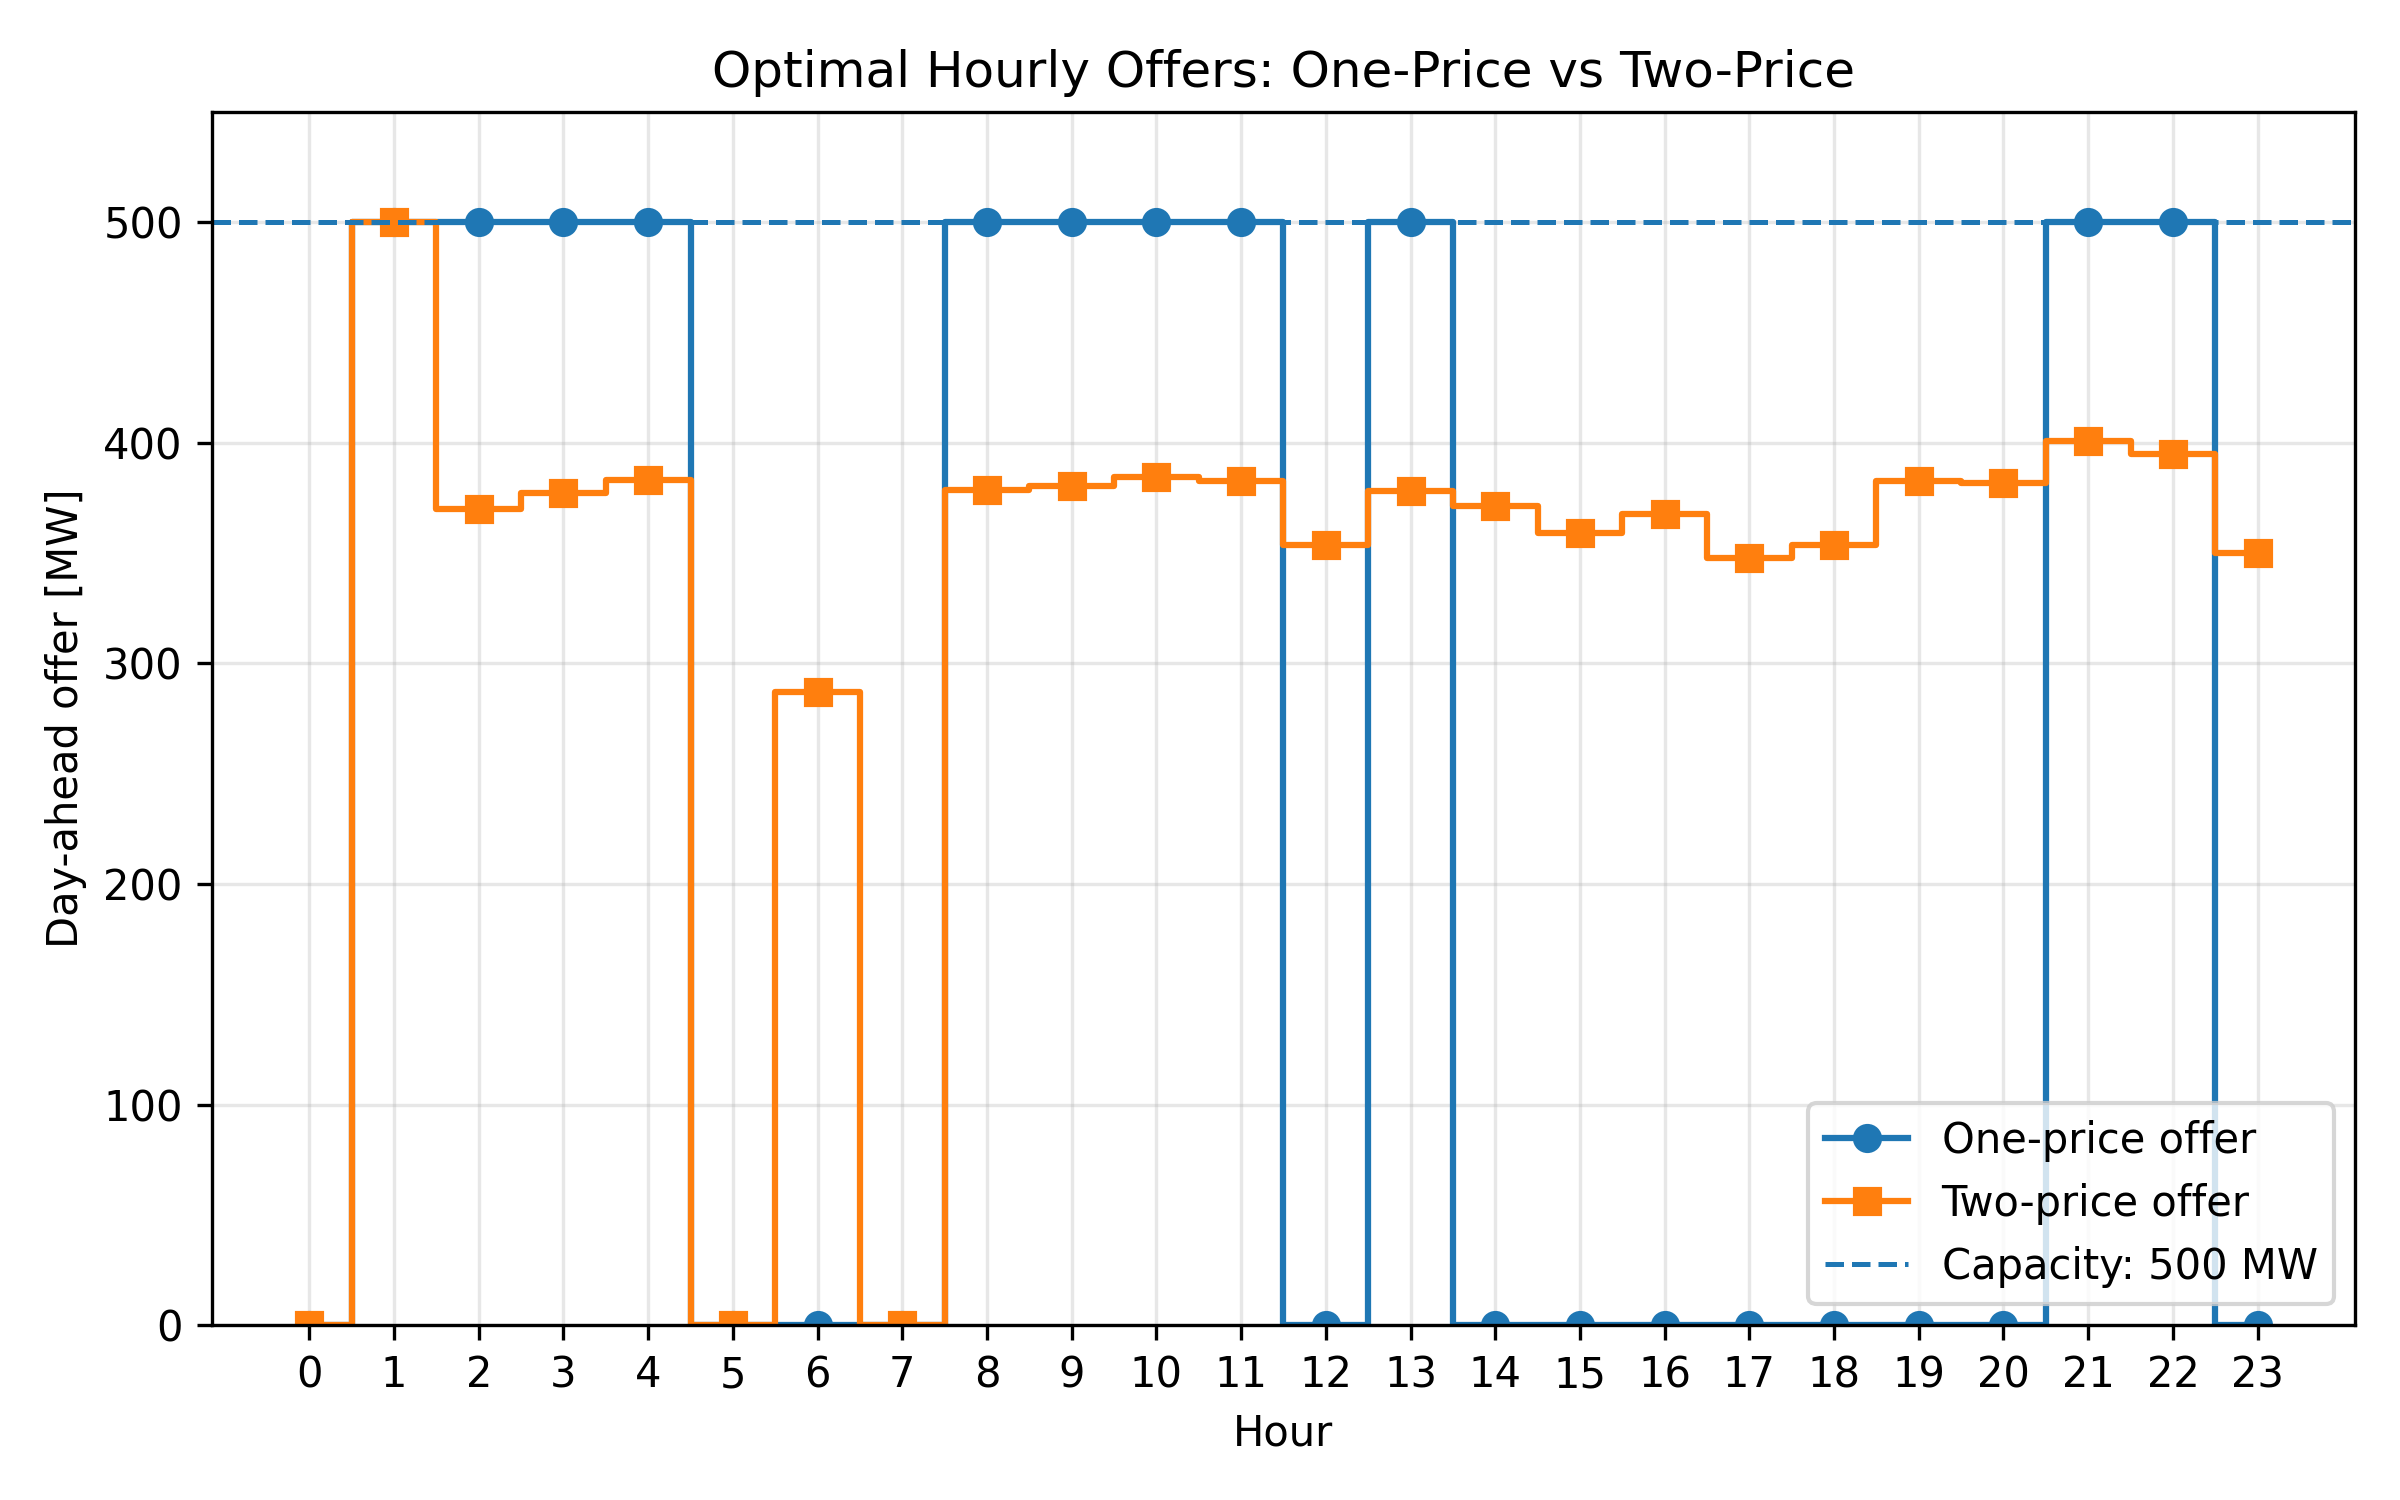
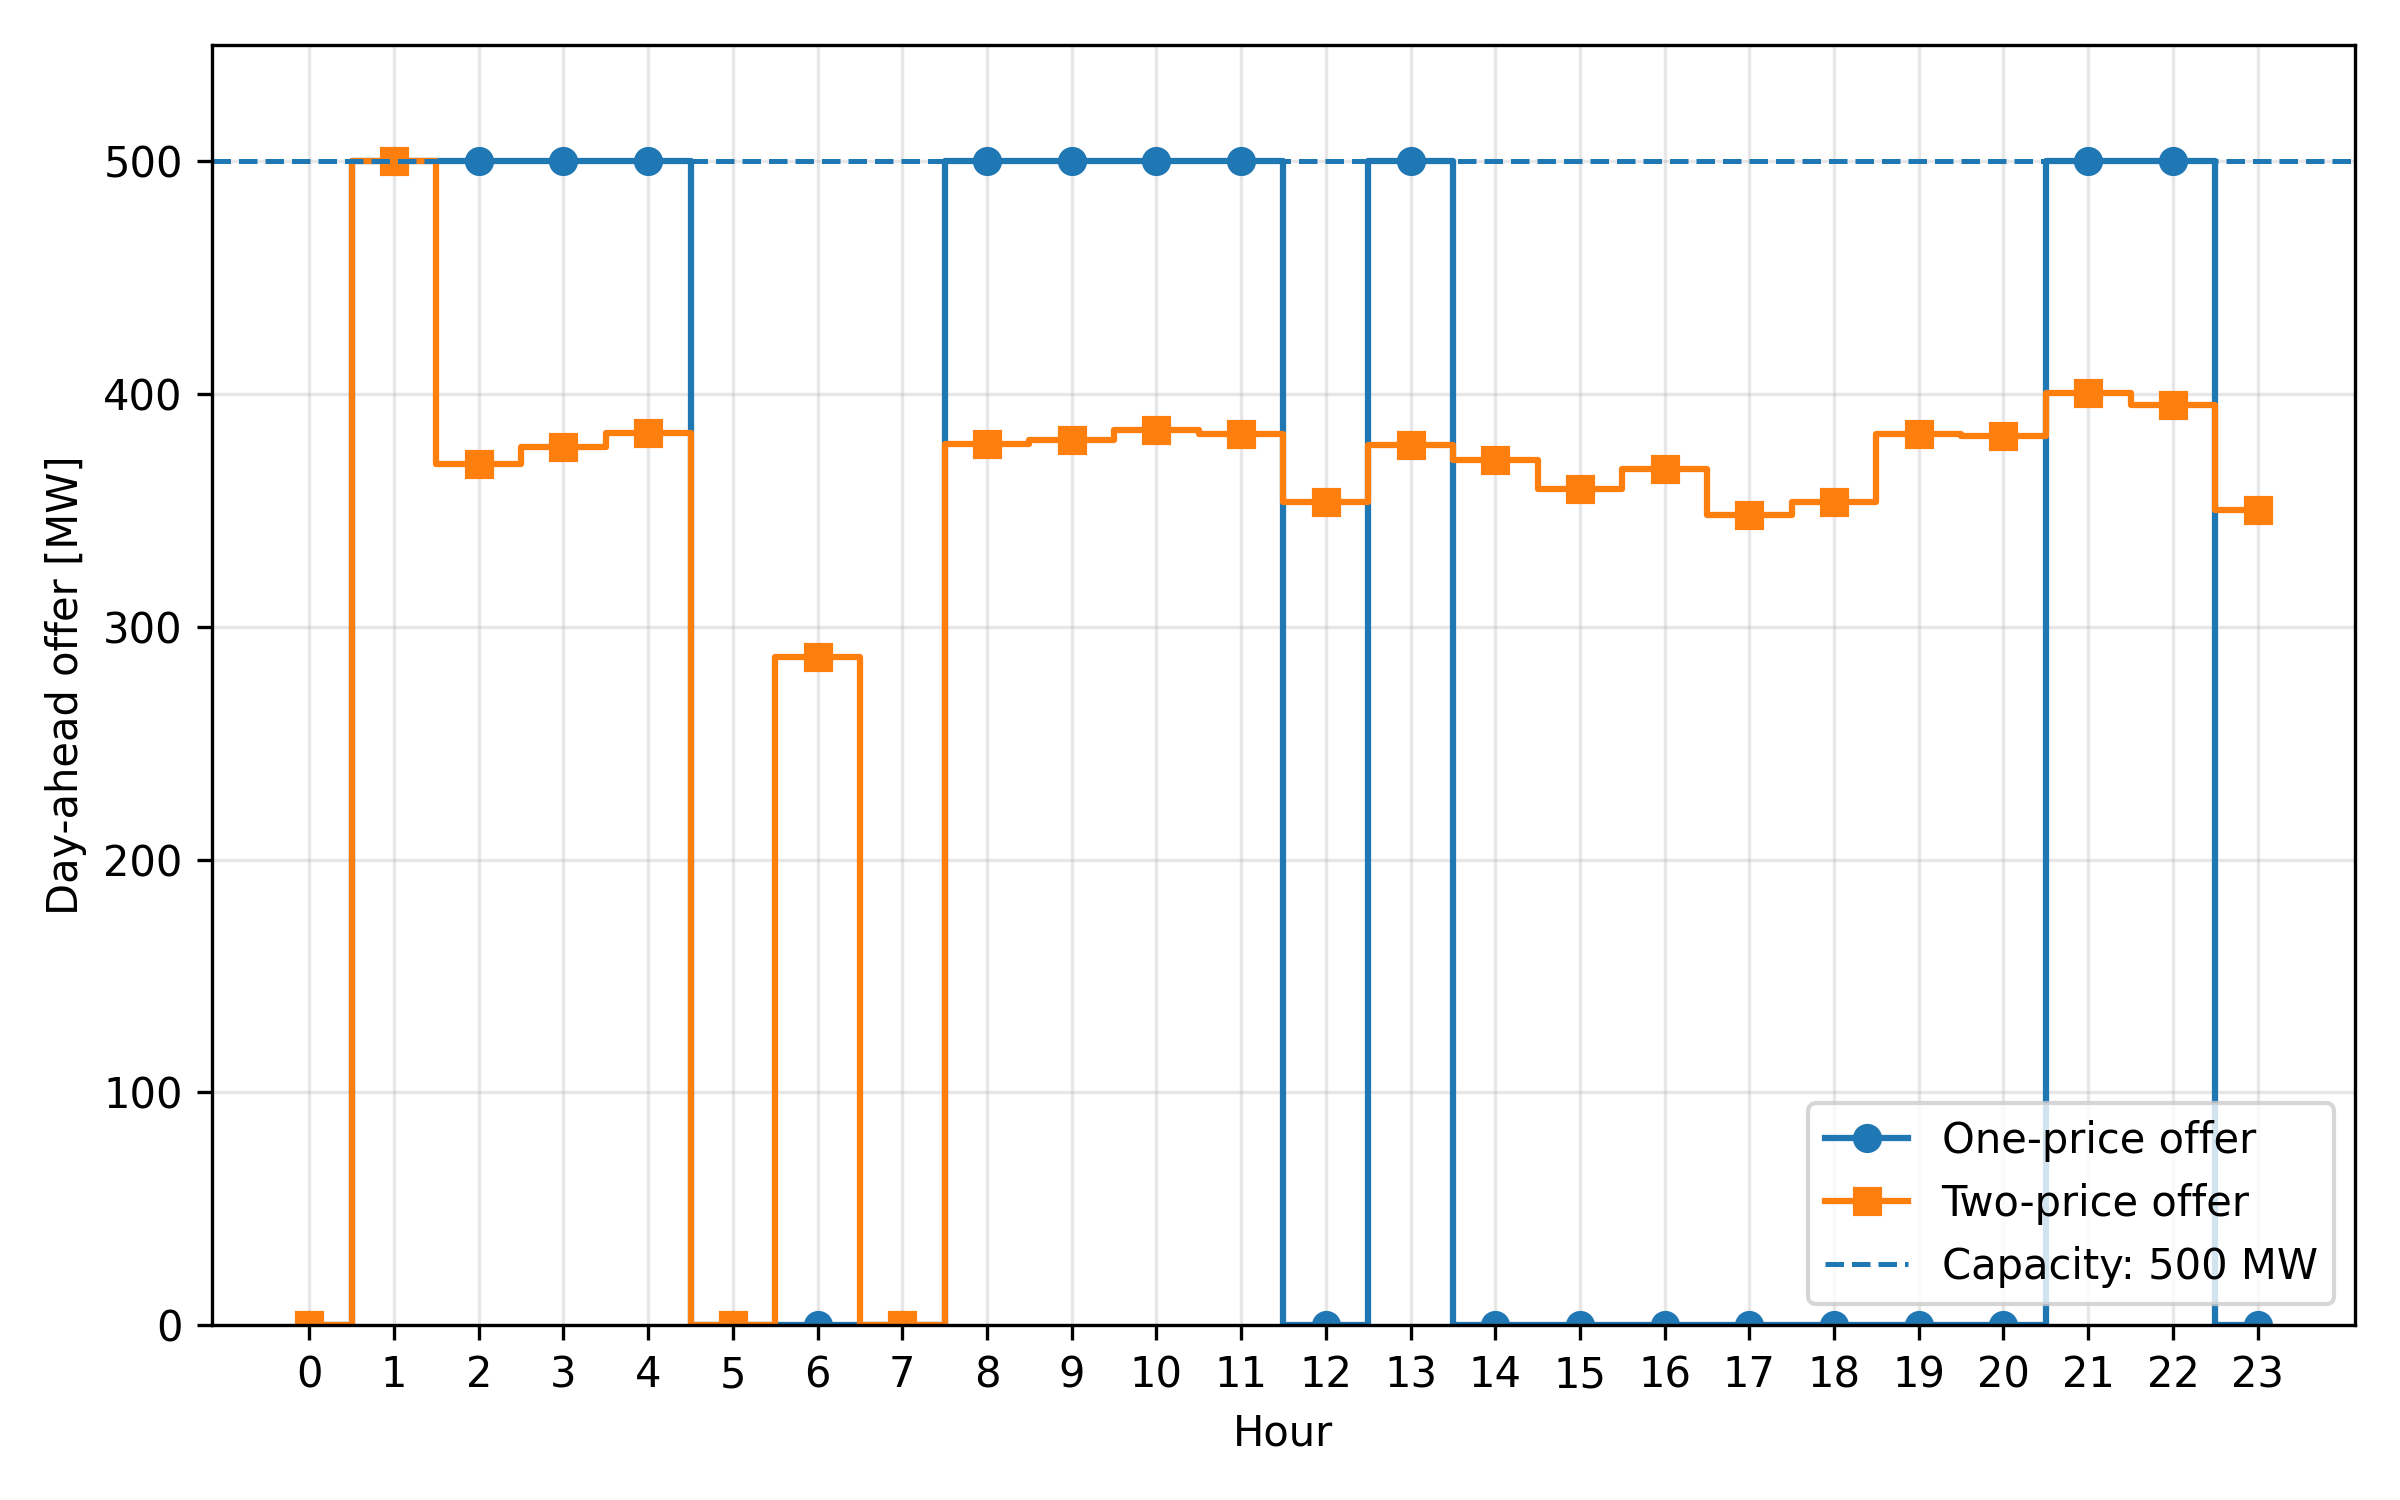
removing titles on plots

diff --git a/plotting.py b/plotting.py
@@ -17,7 +17,7 @@ from helpers import CAPACITY_MW
 def plot_hourly_offer(
     offer: np.ndarray,
     filename: str,
-    title: str,
+    #title: str,
     capacity_mw: float = CAPACITY_MW
 ) -> None:
     hours = np.arange(24)
@@ -31,7 +31,7 @@ def plot_hourly_offer(
         label=f"Capacity: {capacity_mw:.0f} MW"
     )
 
-    plt.title(title)
+    #plt.title(title)
     plt.xlabel("Hour")
     plt.ylabel("Day-ahead offer [MW]")
     plt.xticks(hours)
@@ -50,7 +50,6 @@ def plot_hourly_offer(
 def plot_profit_distribution(
     profits: List[float],
     filename: str,
-    title: str
 ) -> None:
     expected_profit = np.mean(profits)
 
@@ -63,7 +62,6 @@ def plot_profit_distribution(
         label=f"Expected profit: {expected_profit:,.0f} EUR"
     )
 
-    plt.title(title)
     plt.xlabel("Scenario profit [EUR]")
     plt.ylabel("Frequency")
     plt.grid(True, alpha=0.3)
@@ -80,7 +78,6 @@ def plot_profit_distribution(
 def plot_profit_by_scenario(
     profits: List[float],
     filename: str,
-    title: str
 ) -> None:
     scenario_ids = np.arange(1, len(profits) + 1)
     expected_profit = np.mean(profits)
@@ -101,7 +98,6 @@ def plot_profit_by_scenario(
         label=f"Expected profit: {expected_profit:,.0f} EUR"
     )
 
-    plt.title(title)
     plt.xlabel("Scenario index")
     plt.ylabel("Profit [EUR]")
     plt.grid(True, alpha=0.3)
@@ -118,7 +114,6 @@ def plot_offer_comparison(
     offer_one_price: np.ndarray,
     offer_two_price: np.ndarray,
     filename: str,
-    title: str = "Comparison of Optimal Hourly Offers"
 ) -> None:
     hours = np.arange(24)
 
@@ -132,7 +127,6 @@ def plot_offer_comparison(
         label=f"Capacity: {CAPACITY_MW:.0f} MW"
     )
 
-    plt.title(title)
     plt.xlabel("Hour")
     plt.ylabel("Day-ahead offer [MW]")
     plt.xticks(hours)
@@ -437,7 +431,7 @@ def plot_task_2_3_tradeoff(results_df, filename):
     lines = [line1, line2, line3, line4]
     ax1.legend(lines, [l.get_label() for l in lines], loc="upper right")
 
-    ax1.set_title("Task 2.3 Reliability Threshold vs Reserve Bid and Expected Shortfall")
+    #ax1.set_title("Task 2.3 Reliability Threshold vs Reserve Bid and Expected Shortfall")
     ax1.grid(True, alpha=0.3)
 
     fig.tight_layout()
@@ -460,7 +454,7 @@ def plot_task_2_3_threshold_vs_bid(results_df, filename):
         marker="o",
     )
 
-    plt.title("Task 2.3 Reliability Requirement versus Reserve Bid")
+    #plt.title("Task 2.3 Reliability Requirement versus Reserve Bid")
     plt.xlabel("Reliability threshold")
     plt.ylabel("Optimal reserve bid [kW]")
     plt.grid(True, alpha=0.3)

diff --git a/task_1_2.py b/task_1_2.py
@@ -184,28 +184,24 @@ def main():
     plot_hourly_offer(
     offer=offer,
     filename="outputs/figures/task_1_2_hourly_offer.png",
-    title="Task 1.2 Optimal Hourly Offer - Two-Price Scheme"
     )
 
     plot_profit_distribution(
     profits=profits,
     filename="outputs/figures/task_1_2_profit_distribution.png",
-    title="Task 1.2 Profit Distribution - Two-Price Scheme"
     )
 
     plot_profit_by_scenario(
     profits=profits,
     filename="outputs/figures/task_1_2_profit_by_scenario.png",
-    title="Task 1.2 Profit Across Scenarios - Two-Price Scheme"
     )
 
     one_price_df = pd.read_csv("outputs/tables/task_1_1_offer.csv")
     offer_one = one_price_df["offer_MW"].to_numpy()
     plot_offer_comparison(
         offer_one_price=offer_one,
-        offer_two_price=offer,   # current solution
+        offer_two_price=offer,
         filename="outputs/figures/task_1_1_vs_1_2_offer_comparison.png",
-        title="Optimal Hourly Offers: One-Price vs Two-Price"
     )
 
 

diff --git a/task_1_1.py b/task_1_1.py
@@ -107,19 +107,19 @@ def main():
     plot_hourly_offer(
     offer=offer,
     filename="outputs/figures/task_1_1_hourly_offer.png",
-    title="Task 1.1 Optimal Hourly Offer - One-Price Scheme"
+    #title="Task 1.1 Optimal Hourly Offer - One-Price Scheme"
     )
 
     plot_profit_distribution(
     profits=profits,
     filename="outputs/figures/task_1_1_profit_distribution.png",
-    title="Task 1.1 Profit Distribution - One-Price Scheme"
+    #title="Task 1.1 Profit Distribution - One-Price Scheme"
     )
 
     plot_profit_by_scenario(
     profits=profits,
     filename="outputs/figures/task_1_1_profit_by_scenario.png",
-    title="Task 1.1 Profit Across Scenarios - One-Price Scheme"
+    #title="Task 1.1 Profit Across Scenarios - One-Price Scheme"
     )
 
     print("\nFiles saved:")
